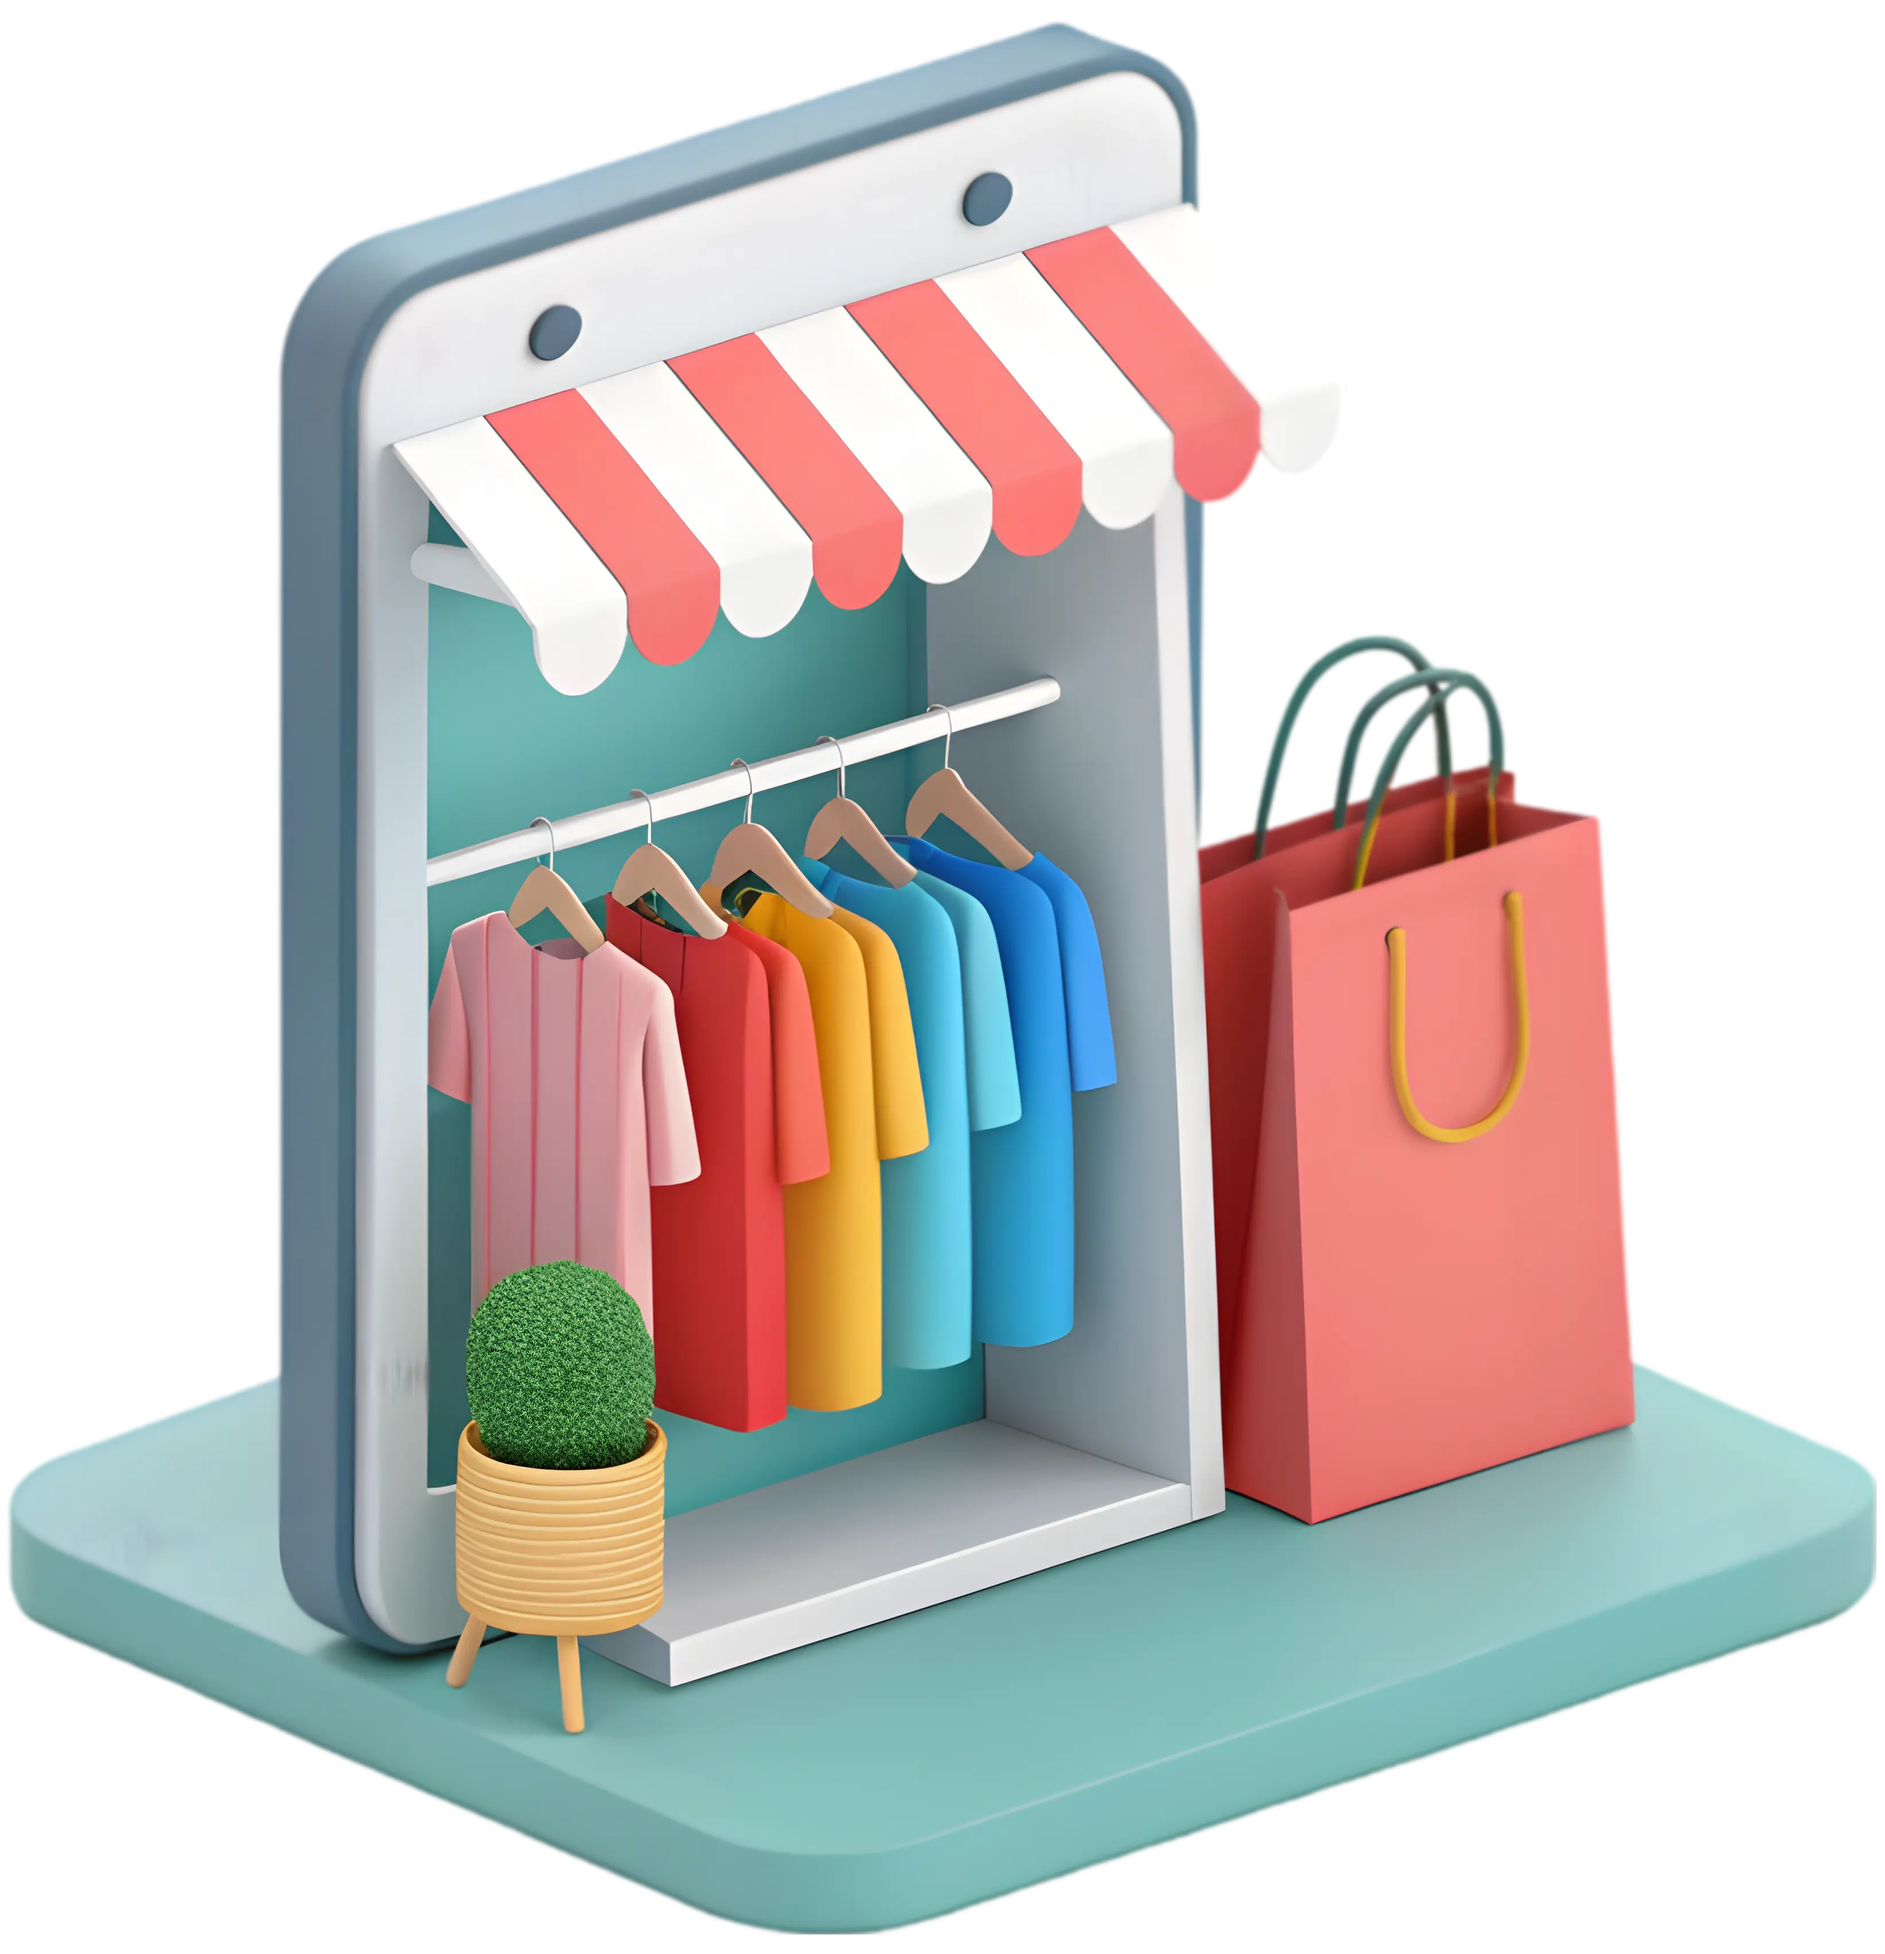
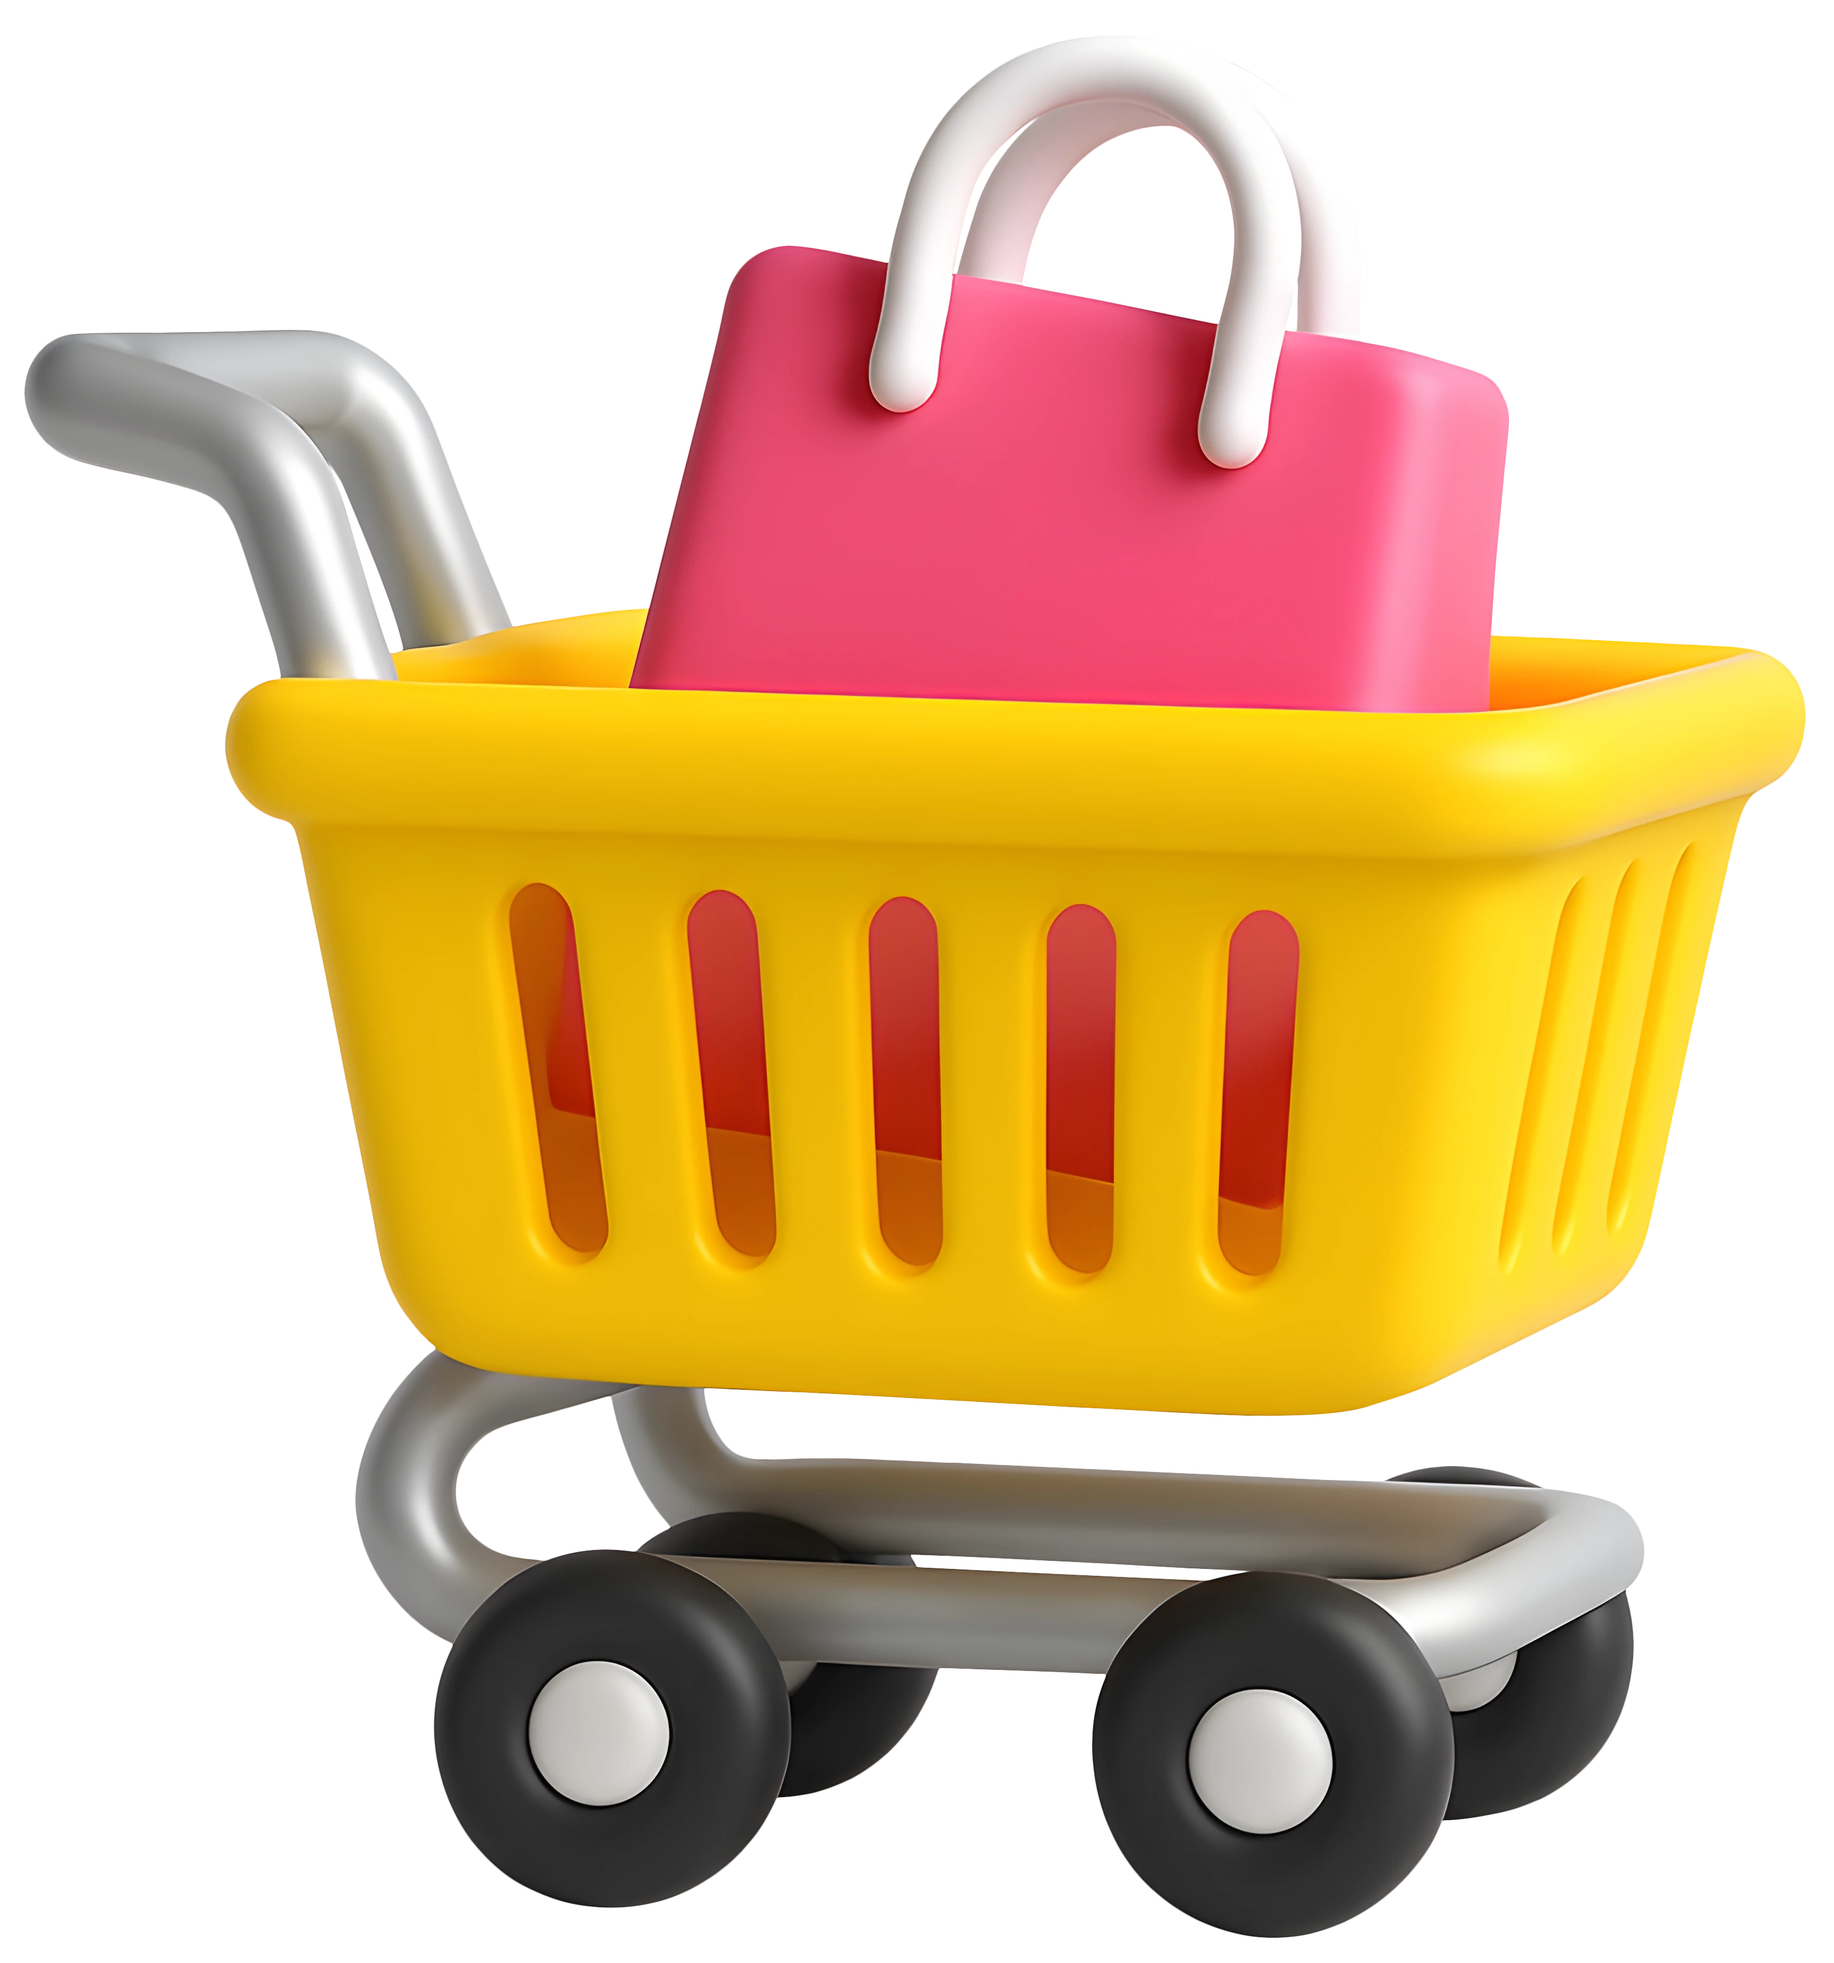
feat: change font & Home image

diff --git a/src/styles/index.css b/src/styles/index.css
@@ -1,9 +1,9 @@
 @font-face {
-  font-display: swap;
-  font-family: 'Sora';
+  font-display: swap; 
+  font-family: 'Fredoka';
   font-style: normal;
   font-weight: 400;
-  src: url('../assets/fonts/sora.woff2') format('woff2');
+  src: url('../assets/fonts/fredoka.woff2') format('woff2'); 
 }
 
 * {
@@ -22,5 +22,5 @@ body,
   display: flex;
   flex-direction: column;
   background-color: rgb(255 255 255);
-  font-family: Sora, Arial;
+  font-family: Fredoka, Arial;
 }

diff --git a/src/styles/Home.module.css b/src/styles/Home.module.css
@@ -13,7 +13,7 @@
 }
 
 .img {
-  max-width: 550px;
+  max-width: 500px;
   min-width: 300px;
   width: 100%;
   height: auto;
@@ -36,4 +36,5 @@
   width: 200px;
   height: 40px;
   margin-top: 1rem;
+  font-family: Fredoka, Arial;
 }
